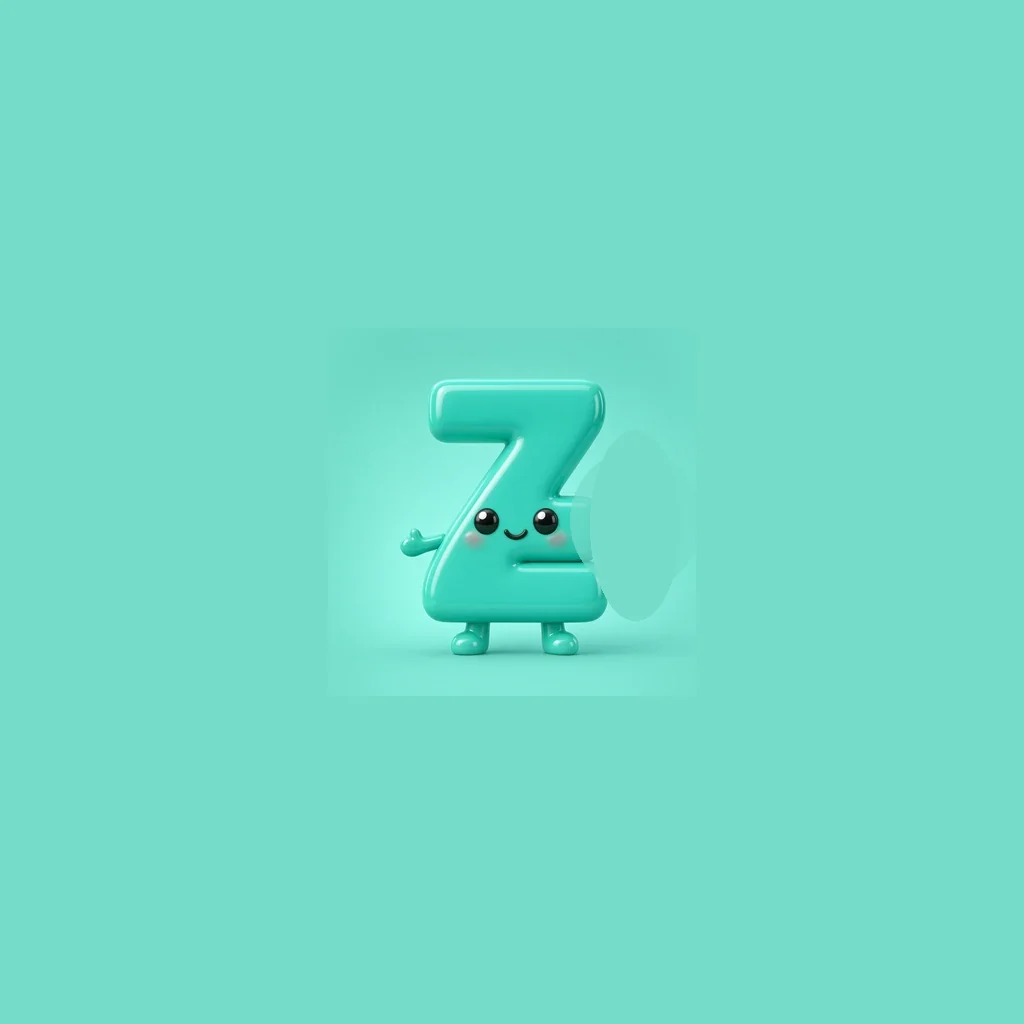
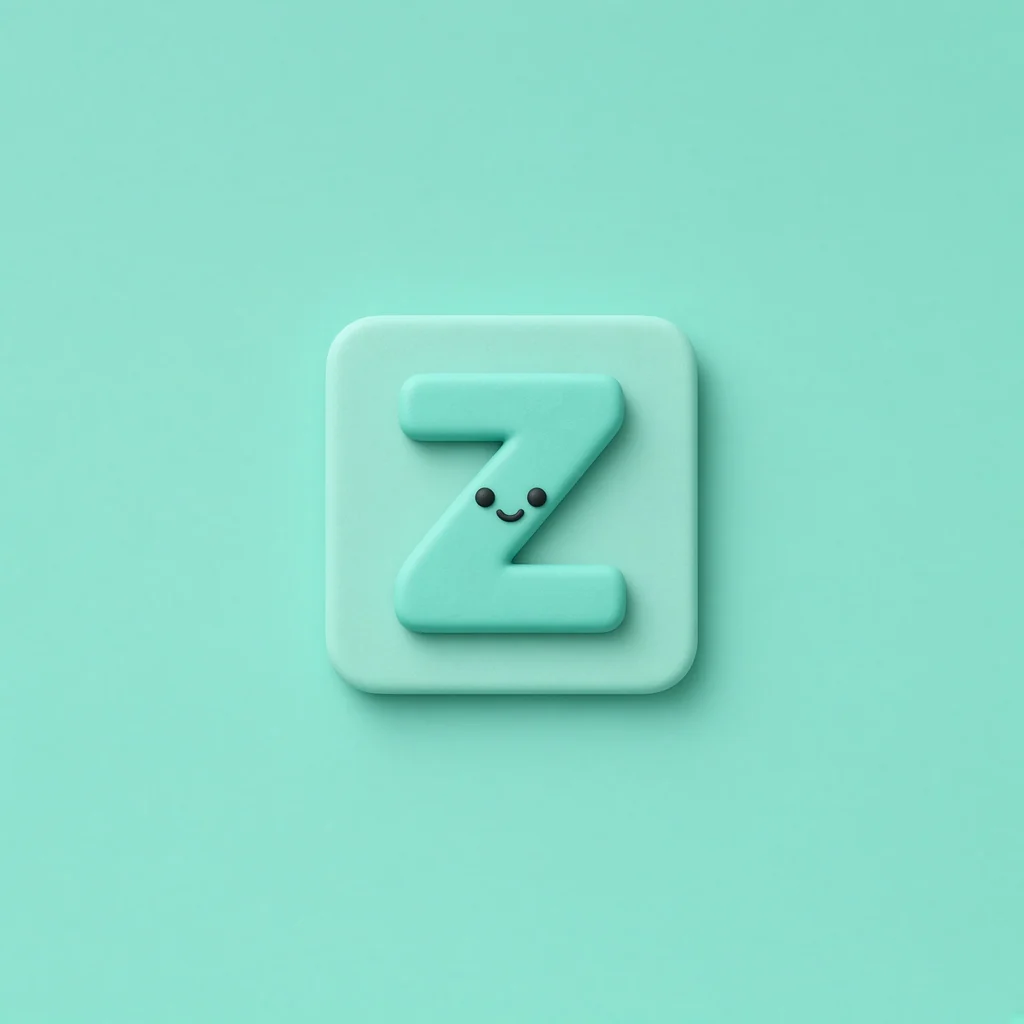
v0.274: remake little z — no paint-over, no extra blob.

diff --git a/src/lib/version.ts b/src/lib/version.ts
@@ -12,7 +12,7 @@
  * Grok Publish: still remind at v0.070, v0.080… so the public link can match.
  */
 
-export const APP_VERSION = "0.273";
+export const APP_VERSION = "0.274";
 export const APP_VERSION_LABEL = `v${APP_VERSION}`;
 export const APP_SLUG = "abc-adventure";
 export const APP_DISPLAY_NAME = "ABC Adventure";

diff --git a/PROJECT.md b/PROJECT.md
@@ -113,7 +113,7 @@ npm run build:apk      # only when asked
 
 ## Versioning & downloads
 
-- **Current version:** `0.273` (`v0.273`) — stored in `VERSION` and `src/lib/version.ts` (keep in sync).
+- **Current version:** `0.274` (`v0.274`) — stored in `VERSION` and `src/lib/version.ts` (keep in sync).
 
 ## GitHub + Grok Publish cadence
 

diff --git a/SESSION.md b/SESSION.md
@@ -1,6 +1,6 @@
 # Session compact — ABC Adventure
 
-**Version:** v0.273  
+**Version:** v0.274  
 **GitHub:** sh4gu4dummy-arch/abc-adventure `main`  
 Always **commit + push** ABC updates the same turn. Tell them the version.
 **Never** push Grok sandbox internals (`.grok/`, attachments, skill dumps).  
